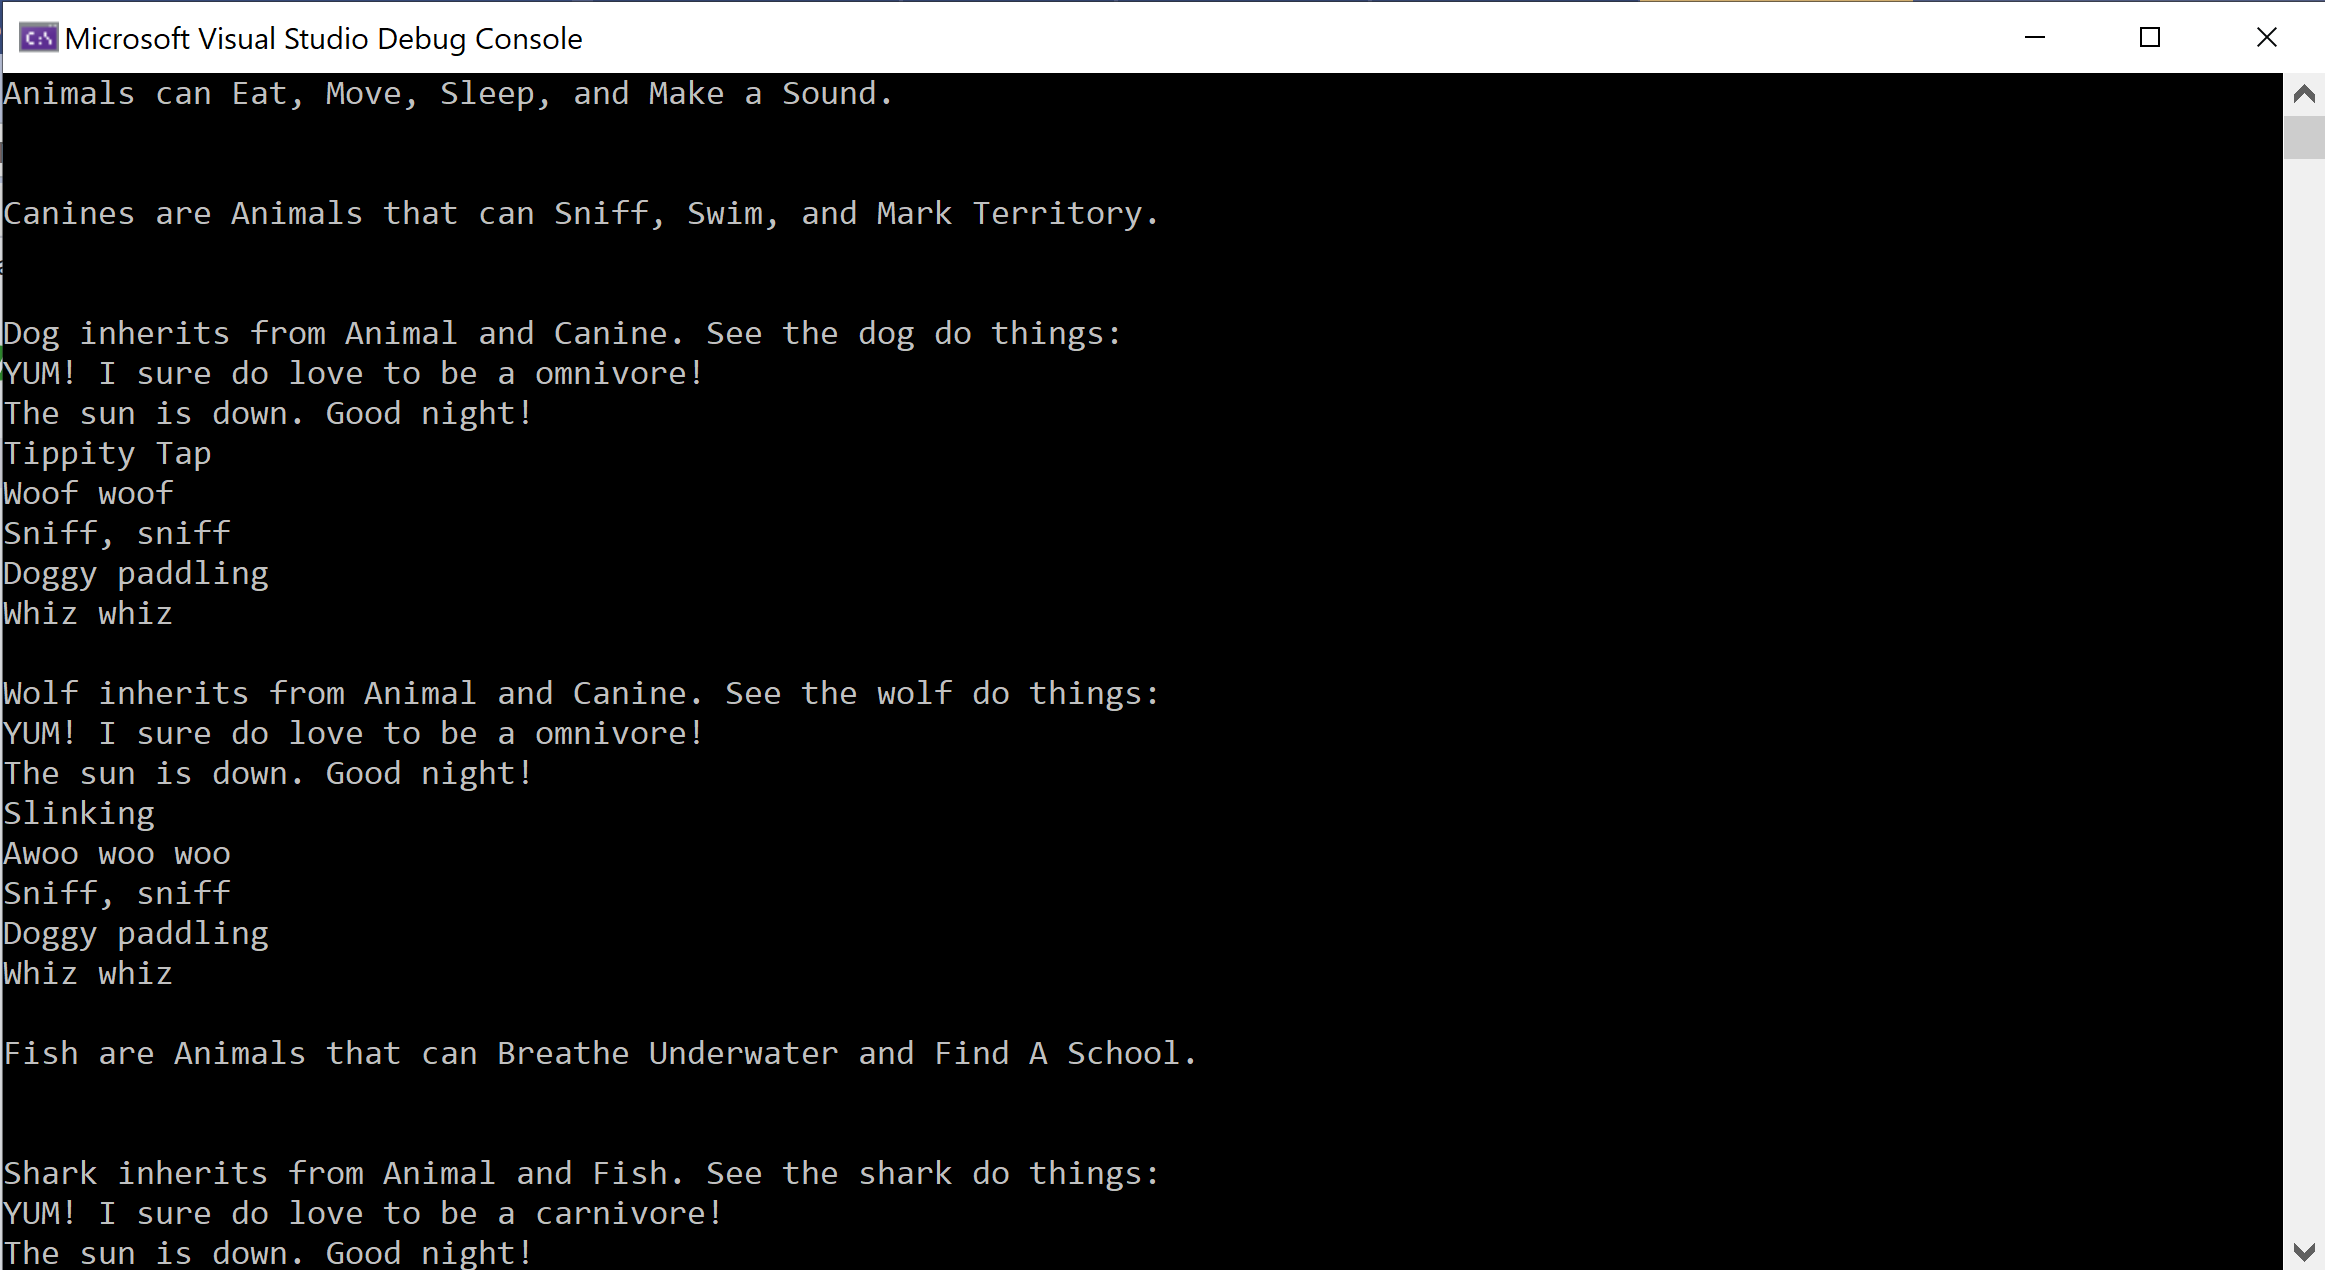
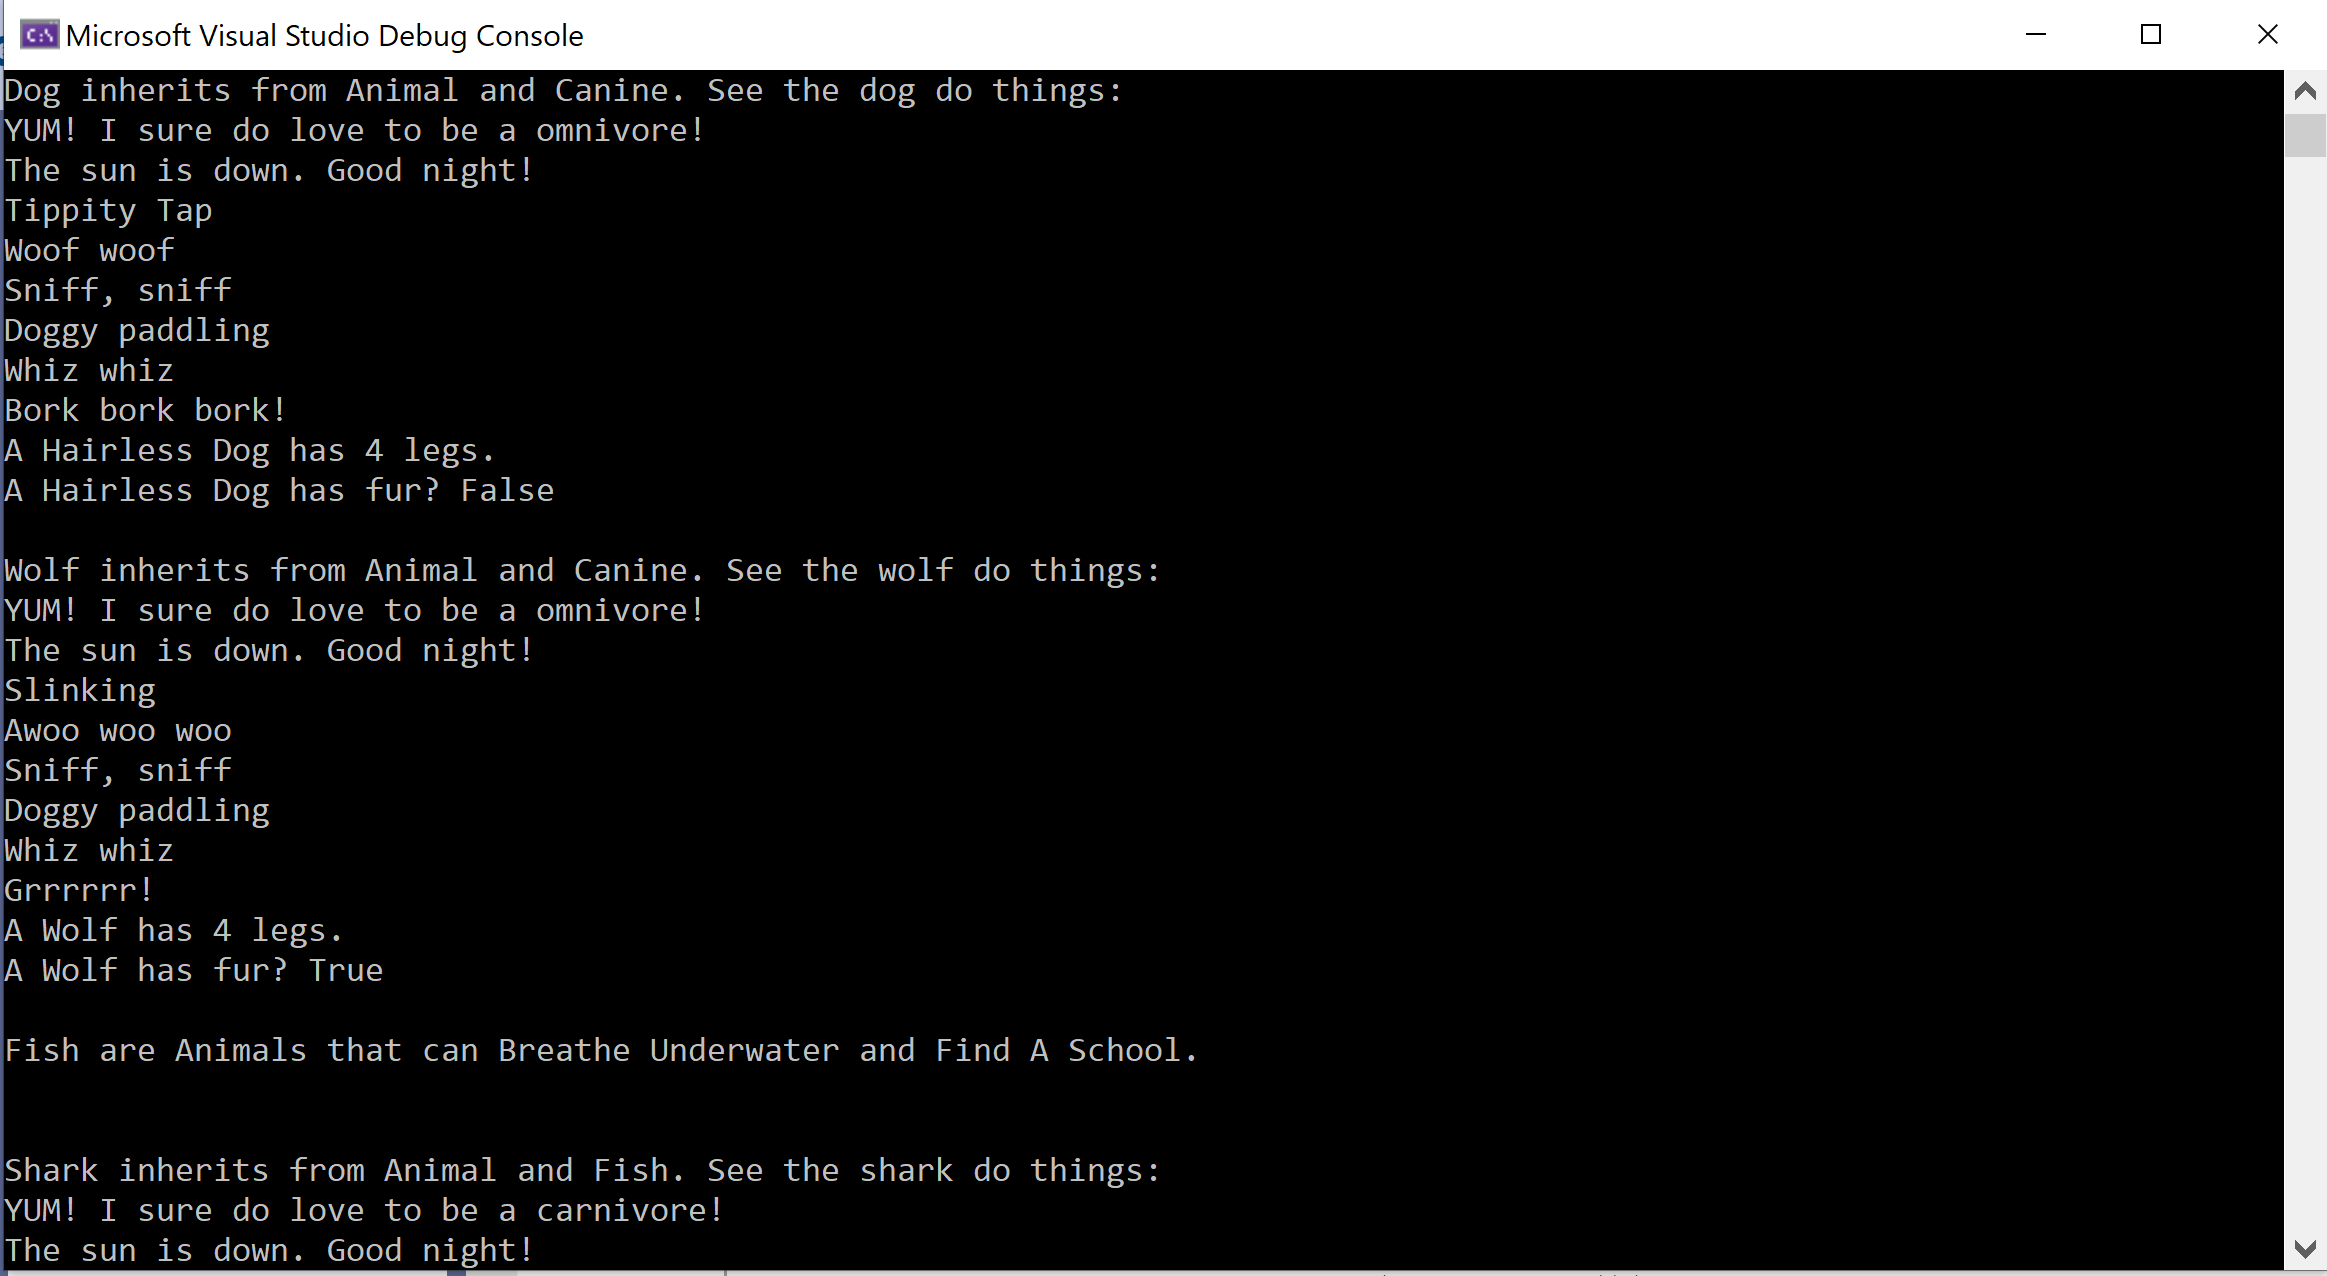
Added summaries to methods. Added README changes.

diff --git a/Lab06UnitTesting/UnitTest.cs b/Lab06UnitTesting/UnitTest.cs
@@ -24,6 +24,19 @@ namespace Lab06UnitTesting
         }
 
         /// <summary>
+        /// Checks whether a Shark object returns the correct output from the RespondToDanger() method and demonstrates inheritance from Animal class
+        /// </summary>
+        [Fact]
+        public void CheckSharkRespondToDanger()
+        {
+            Shark shark = new Shark();
+
+            string sharkResponse = shark.RespondToDanger();
+
+            Assert.Equal("Gnaw gnaw gnaw", sharkResponse);
+        }
+
+        /// <summary>
         /// Checks whether a Dog object returns the correct output from its Move() method and demonstrates inheritance from Animal class
         /// </summary>
         [Fact]
@@ -34,6 +47,19 @@ namespace Lab06UnitTesting
             string dogMove = dog.Move();
 
             Assert.Equal("Tippity Tap", dogMove);
+        }
+
+        /// <summary>
+        /// Checks whether a Dog object returns the correct output from the MakeSound() method and demonstrates inheritance from Animal class
+        /// </summary>
+        [Fact]
+        public void CheckDogMakesSound()
+        {
+            Dog dog = new Dog();
+
+            string dogSound = dog.MakeSound();
+
+            Assert.Equal("Woof woof", dogSound);
         }
 
         /// <summary>
@@ -50,6 +76,19 @@ namespace Lab06UnitTesting
         }
 
         /// <summary>
+        /// Checks whether a Wolf object returns the correct output from the RespondToDanger() method and demonstrates inheritance from Animal class
+        /// </summary>
+        [Fact]
+        public void CheckWolfRespondToDanger()
+        {
+            Wolf wolf = new Wolf();
+
+            string wolfResponse = wolf.RespondToDanger();
+
+            Assert.Equal("Grrrrrr!", wolfResponse);
+        }
+
+        /// <summary>
         /// Checks whether a Rhino object returns the correct output from the MakeSound() method and demonstrates inheritance from Animal class
         /// </summary>
         [Fact]
@@ -63,6 +102,19 @@ namespace Lab06UnitTesting
         }
 
         /// <summary>
+        /// Checks whether a Rhino object returns the correct output from the Move() method and demonstrates inheritance from Animal class
+        /// </summary>
+        [Fact]
+        public void CheckRhinoMove()
+        {
+            Rhino rhino = new Rhino();
+
+            string rhinoMove = rhino.Move();
+
+            Assert.Equal("Rumble but slower", rhinoMove);
+        }
+
+        /// <summary>
         /// Checks whether a Hippo object returns the correct output from the Charge() method and demonstrates inheritance from Pachyderm class
         /// </summary>
         [Fact]
@@ -73,6 +125,19 @@ namespace Lab06UnitTesting
             string hippoCharge = hippo.Charge();
 
             Assert.Equal("Rumble rumble", hippoCharge);
+        }
+
+        /// <summary>
+        /// Checks whether a Hippo object returns the correct output from the RespondToDanger() method and demonstrates inheritance from Animal class
+        /// </summary>
+        [Fact]
+        public void CheckHippoRespondToDanger()
+        {
+            Hippo hippo = new Hippo();
+
+            string hippoResponse = hippo.RespondToDanger();
+
+            Assert.Equal("Shows off those mean chompers!", hippoResponse);
         }
 
         /// <summary>

diff --git a/Lab06-OOP-Principles/Program.cs b/Lab06-OOP-Principles/Program.cs
@@ -19,6 +19,10 @@ namespace Lab06_OOP_Principles
             Console.WriteLine(dog.Sniff());
             Console.WriteLine(dog.Swim());
             Console.WriteLine(dog.MarkTerritory());
+            Console.WriteLine(dog.RespondToDanger());
+            Console.WriteLine($"A {dog.Name} has {dog.NumOfLegs} legs.");
+            dog.HasFur = true;  // This will turn dog.HasFur to false due to HasFur implementation
+            Console.WriteLine($"A {dog.Name} has fur? {dog.HasFur}");
 
             Console.WriteLine("\nWolf inherits from Animal and Canine. See the wolf do things:");
             Wolf wolf = new Wolf();
@@ -29,6 +33,9 @@ namespace Lab06_OOP_Principles
             Console.WriteLine(wolf.Sniff());
             Console.WriteLine(wolf.Swim());
             Console.WriteLine(wolf.MarkTerritory());
+            Console.WriteLine(wolf.RespondToDanger());
+            Console.WriteLine($"A {wolf.Name} has {wolf.NumOfLegs} legs.");
+            Console.WriteLine($"A {wolf.Name} has fur? {wolf.HasFur}");
 
             Console.WriteLine("\nFish are Animals that can Breathe Underwater and Find A School.\n");
             Console.WriteLine("\nShark inherits from Animal and Fish. See the shark do things:");
@@ -39,6 +46,7 @@ namespace Lab06_OOP_Principles
             Console.WriteLine(shark.MakeSound());
             Console.WriteLine(shark.BreatheUnderwater());
             Console.WriteLine("Find a school? " + shark.FindASchool(false));
+            Console.WriteLine(shark.RespondToDanger());
 
             Console.WriteLine("\nPachyderms are Animals that can Charge and Roll Around.\n");
             Console.WriteLine("\nRhino inherits from Animal and Pachyderm. See the rhino do things:");
@@ -49,6 +57,7 @@ namespace Lab06_OOP_Principles
             Console.WriteLine(rhino.MakeSound());
             Console.WriteLine(rhino.Charge());
             Console.WriteLine(rhino.RollAround());
+            Console.WriteLine(rhino.RespondToDanger());
 
             Console.WriteLine("\nHippo inherits from Animal and Pachyderm. See the hippo do things:");
             Hippo hippo = new Hippo();
@@ -58,6 +67,7 @@ namespace Lab06_OOP_Principles
             Console.WriteLine(hippo.MakeSound());
             Console.WriteLine(hippo.Charge());
             Console.WriteLine(hippo.RollAround());
+            Console.WriteLine(hippo.RespondToDanger());
         }
     }
 }

diff --git a/Lab06-OOP-Principles/Classes/Concrete/Wolf.cs b/Lab06-OOP-Principles/Classes/Concrete/Wolf.cs
@@ -73,6 +73,10 @@ namespace Lab06_OOP_Principles.Classes.Concrete
             return "Slinking";
         }
 
+        /// <summary>
+        /// Method that overrides the abstract RespondToDanger() method and returns a string that represents a wolf responding to danger
+        /// </summary>
+        /// <returns>string: a representation of a wolf responding to danger</returns>
         public override string RespondToDanger()
         {
             return "Grrrrrr!";

diff --git a/Lab06-OOP-Principles/Classes/Concrete/Hippo.cs b/Lab06-OOP-Principles/Classes/Concrete/Hippo.cs
@@ -75,6 +75,10 @@ namespace Lab06_OOP_Principles.Classes.Concrete
             return "Waddle waddle";
         }
 
+        /// <summary>
+        /// Method that returns a string expressing a hippo responding to danger
+        /// </summary>
+        /// <returns>string expressing a hippo responding to danger</returns>
         public override string RespondToDanger()
         {
             return "Shows off those mean chompers!";

diff --git a/Lab06-OOP-Principles/Classes/Concrete/Rhino.cs b/Lab06-OOP-Principles/Classes/Concrete/Rhino.cs
@@ -67,6 +67,10 @@ namespace Lab06_OOP_Principles.Classes.Concrete
             return "Rumble but slower";
         }
 
+        /// <summary>
+        /// Method that returns a string representing a rhino responding to danger
+        /// </summary>
+        /// <returns>string that represents a rhino responding to danger</returns>
         public override string RespondToDanger()
         {
             return "Rears up to charge!";

diff --git a/Lab06-OOP-Principles/Classes/Concrete/Shark.cs b/Lab06-OOP-Principles/Classes/Concrete/Shark.cs
@@ -62,6 +62,10 @@ namespace Lab06_OOP_Principles.Classes.Concrete
             return "Swim swim";
         }
 
+        /// <summary>
+        /// Method that returns a string representing a shark responding to danger
+        /// </summary>
+        /// <returns>string representing a shark responding to danger</returns>
         public override string RespondToDanger()
         {
             return "Gnaw gnaw gnaw";

diff --git a/Lab06-OOP-Principles/Classes/Concrete/Dog.cs b/Lab06-OOP-Principles/Classes/Concrete/Dog.cs
@@ -68,6 +68,10 @@ namespace Lab06_OOP_Principles.Classes.Concrete
             return "Tippity Tap";
         }
 
+        /// <summary>
+        /// Method that returns a string representing a dog responding to danger
+        /// </summary>
+        /// <returns>string expressing a dog responding to danger</returns>
         public override string RespondToDanger()
         {
             return "Bork bork bork!";

diff --git a/README.md b/README.md
@@ -1,10 +1,10 @@
-# Lab 06 - OOP Principles (1/2)
-
+# Lab 07 - OOP Principles (1/2)
+
 ## Authors
 
 - Paul M Rest
 - Bade J Habib
-
+
 ---
 
 ## Description
@@ -25,56 +25,66 @@ Overview of the four OOP principles:
 Employs the OOP principles of inheritance and abstraction to build off base class properties and methods (states and behavior) towards concrete classes that can be instantiated.
 
 - Inheritance - we have a base abstract class, Animal, that has various properties and methods. The three abstract child classes of Animal, Fish, Canine, and Pachyderm, override some of these properties and methods. Then the five, concrete, classes, Shark, Dog, Wolf, Hippo, and Rhino, implement all of them.
-
+
 - Abstraction - our five concrete classes use various properties and methods defined in the abstract classes. For example, both Dog and Wolf know how to Sniff(), Swim(), and MarkTerritory() as they gain those methods from their abstract parent class, Canine.
 
+- Polymorphism - our two concrete Canine subclasses, Dog and Wolf, could be used with a reference of type Animal (Canine's superclass) or of type Canine, both of which are abstract classes. Using the Animal reference would give us access to all the public properties and methods defined in Animal, with abstract methods and properties being implemented either in the abstract Canine or concrete Dog/Wolf classes, and public virtual properties and methods either using their behavior/state from Animal, or being overridden in Animal, or Dog/Wolf. Using the Canine reference gives similar access, only with the added properties and methods from the abstract Canine class.
+
+- Encapsulation - a client class using one or more of our concrete Animal subclasses to instantiate objects wouldn't have access to the field that actually stores the value, but rather would only have access to the public property using the field for its returned get value.
+
 ---
 
 ## Getting Started
 
 Clone this repository to your local machine.
-
+
 In a command line environment with Git installed:
-
+
 ```
 git clone <<GIT REPO URL HERE>>
 ```
-
+
 ## To Run the Program from Visual Studio (2019):
 Select ```File``` -> ```Open``` -> ```Project/Solution```
-
+
 Next navigate to the directory you cloned the repository to.
-
+
 Double click on the ```Lab06-OOP-Principles``` directory.
-
+
 Then select and open ```Lab06-OOP-Principles.sln```
-
+
 Select ```Debug``` -> ```Start Debugging``` to the run the app with the debugger
-
+
 OR
-
+
 Select ```Debug``` -> ```Start Without Debugging```
 
 ---
-
+
 ## Visuals
-
+
 ### Console App
-
+
 ![Console App](./Lab06-OOP-Principles/assets/lab06-oop-principles.png)
-
+
 ### UML
-
+
 ![UML](./Lab06-OOP-Principles/assets/ZooUML.png)
 
 ---
-
+
 ## Current Version
-
-v1.0
-
+
+v1.5
+
 ## Change Log
 
+### 2020-07-14
+
+- Updated README from today's changes
+- Added abstract method RespondToDanger(), virtual properties to Canine, implemented encapsulation of overridden properties.
+- Updated README from yesterday
+
 ### 2020-07-13
 
 - Added unit tests and abstract classes.
@@ -82,3 +92,4 @@ v1.0
 - Added concrete classes Hippo and Wolf.
 - Added instantiation of concrete classes in Main()
 - Updated README.
+- Added summary tags.
